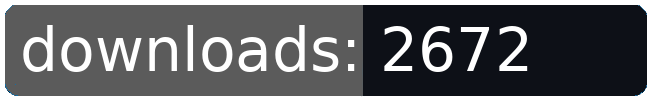
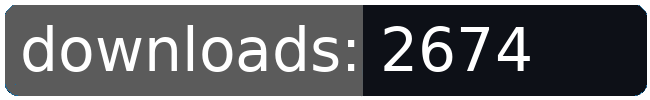
dl log written

Changed region(s): [[0.7692, 0.24, 0.8308, 0.72]]

diff --git a/README.md b/README.md
@@ -109,8 +109,8 @@
 		<td>2694</td>
 		<td>2721</td>
 		<td>2750</td>
-		<td>2758</td>
-		<td>+ 8</td>
+		<td>2760</td>
+		<td>+ 10</td>
 	</tr>
 	<tr>
 		<td>comets</td>
@@ -417,8 +417,8 @@
 		<td>2619</td>
 		<td>2645</td>
 		<td>2668</td>
-		<td>2672</td>
-		<td>+ 4</td>
+		<td>2674</td>
+		<td>+ 6</td>
 	</tr>
 	<tr>
 		<td>snowfeather.robotics</td>
@@ -494,8 +494,8 @@
 		<td></td>
 		<td></td>
 		<td></td>
-		<td>105305</td>
-		<td>168</td>
+		<td>105309</td>
+		<td>172</td>
 	</tr>
 </table>
 </sub></sup>
@@ -652,8 +652,8 @@
 		<td>2694</td>
 		<td>2721</td>
 		<td>2750</td>
-		<td>2758</td>
-		<td>+ 8</td>
+		<td>2760</td>
+		<td>+ 10</td>
 	</tr>
 	<tr>
 		<td>control.station</td>
@@ -685,8 +685,8 @@
 		<td>2619</td>
 		<td>2645</td>
 		<td>2668</td>
-		<td>2672</td>
-		<td>+ 4</td>
+		<td>2674</td>
+		<td>+ 6</td>
 	</tr>
 	<tr>
 		<td>automata.destruction.0percent</td>
@@ -993,8 +993,8 @@
 		<td></td>
 		<td></td>
 		<td></td>
-		<td>105305</td>
-		<td>168</td>
+		<td>105309</td>
+		<td>172</td>
 	</tr>
 </table>
 </sub></sup>
@@ -1022,7 +1022,7 @@
 		<td>129</td>
 		<td>148</td>
 		<td>182</td>
-		<td>44</td>
+		<td>48</td>
 	</tr>
 	<tr>
 		<td>unique visitors</td>
@@ -1034,7 +1034,7 @@
 		<td>25</td>
 		<td>26</td>
 		<td>27</td>
-		<td>9</td>
+		<td>10</td>
 	</tr>
 </table>
 <br>
@@ -1048,8 +1048,8 @@
 	</tr>
 	<tr>
 		<td>2025-10-11</td>
-		<td>7015</td>
-		<td>1668</td>
+		<td>7019</td>
+		<td>1669</td>
 		<td>278</td>
 		<td>40</td>
 	</tr>
@@ -1062,8 +1062,8 @@
 	</tr>
 	<tr>
 		<td>57</td>
-		<td>123.07</td>
-		<td>29.26</td>
+		<td>123.14</td>
+		<td>29.28</td>
 		<td></td>
 		<td></td>
 	</tr>
